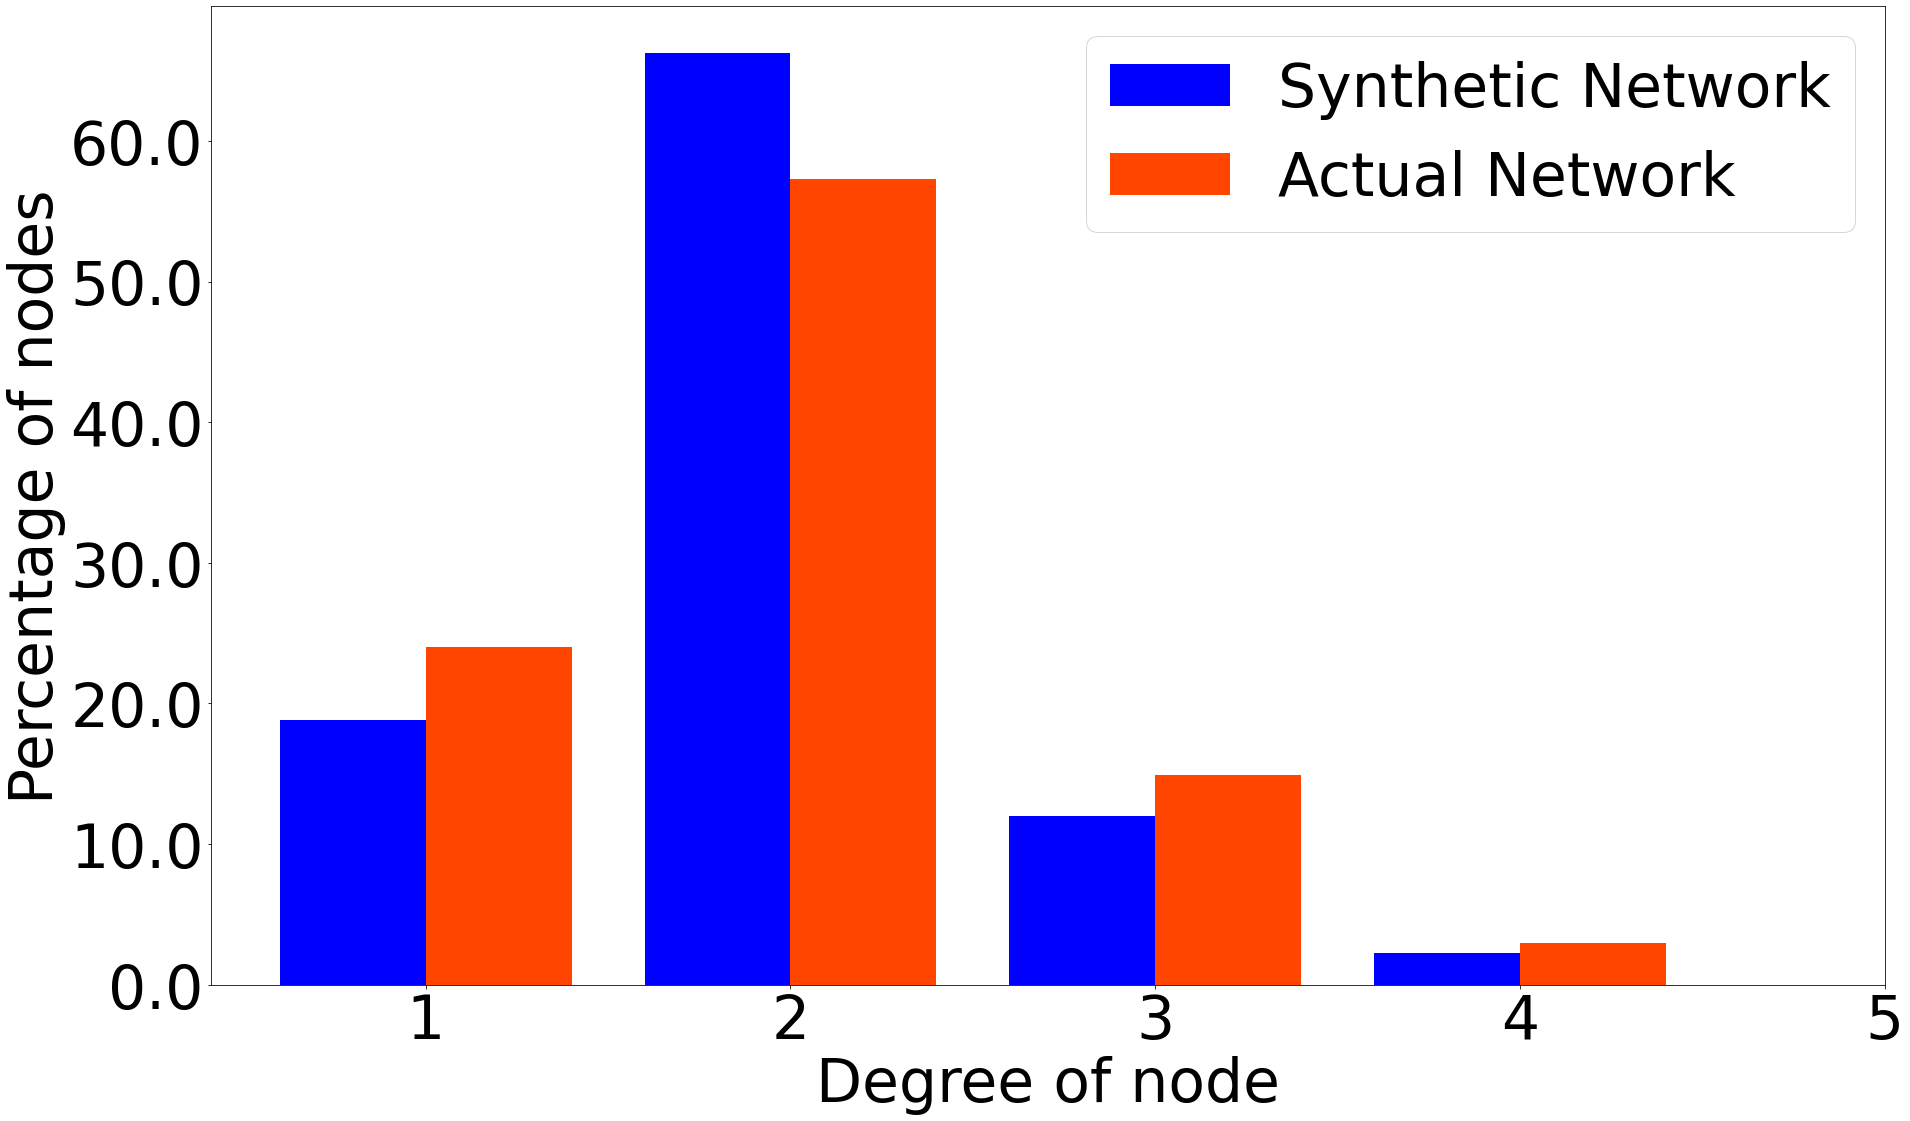
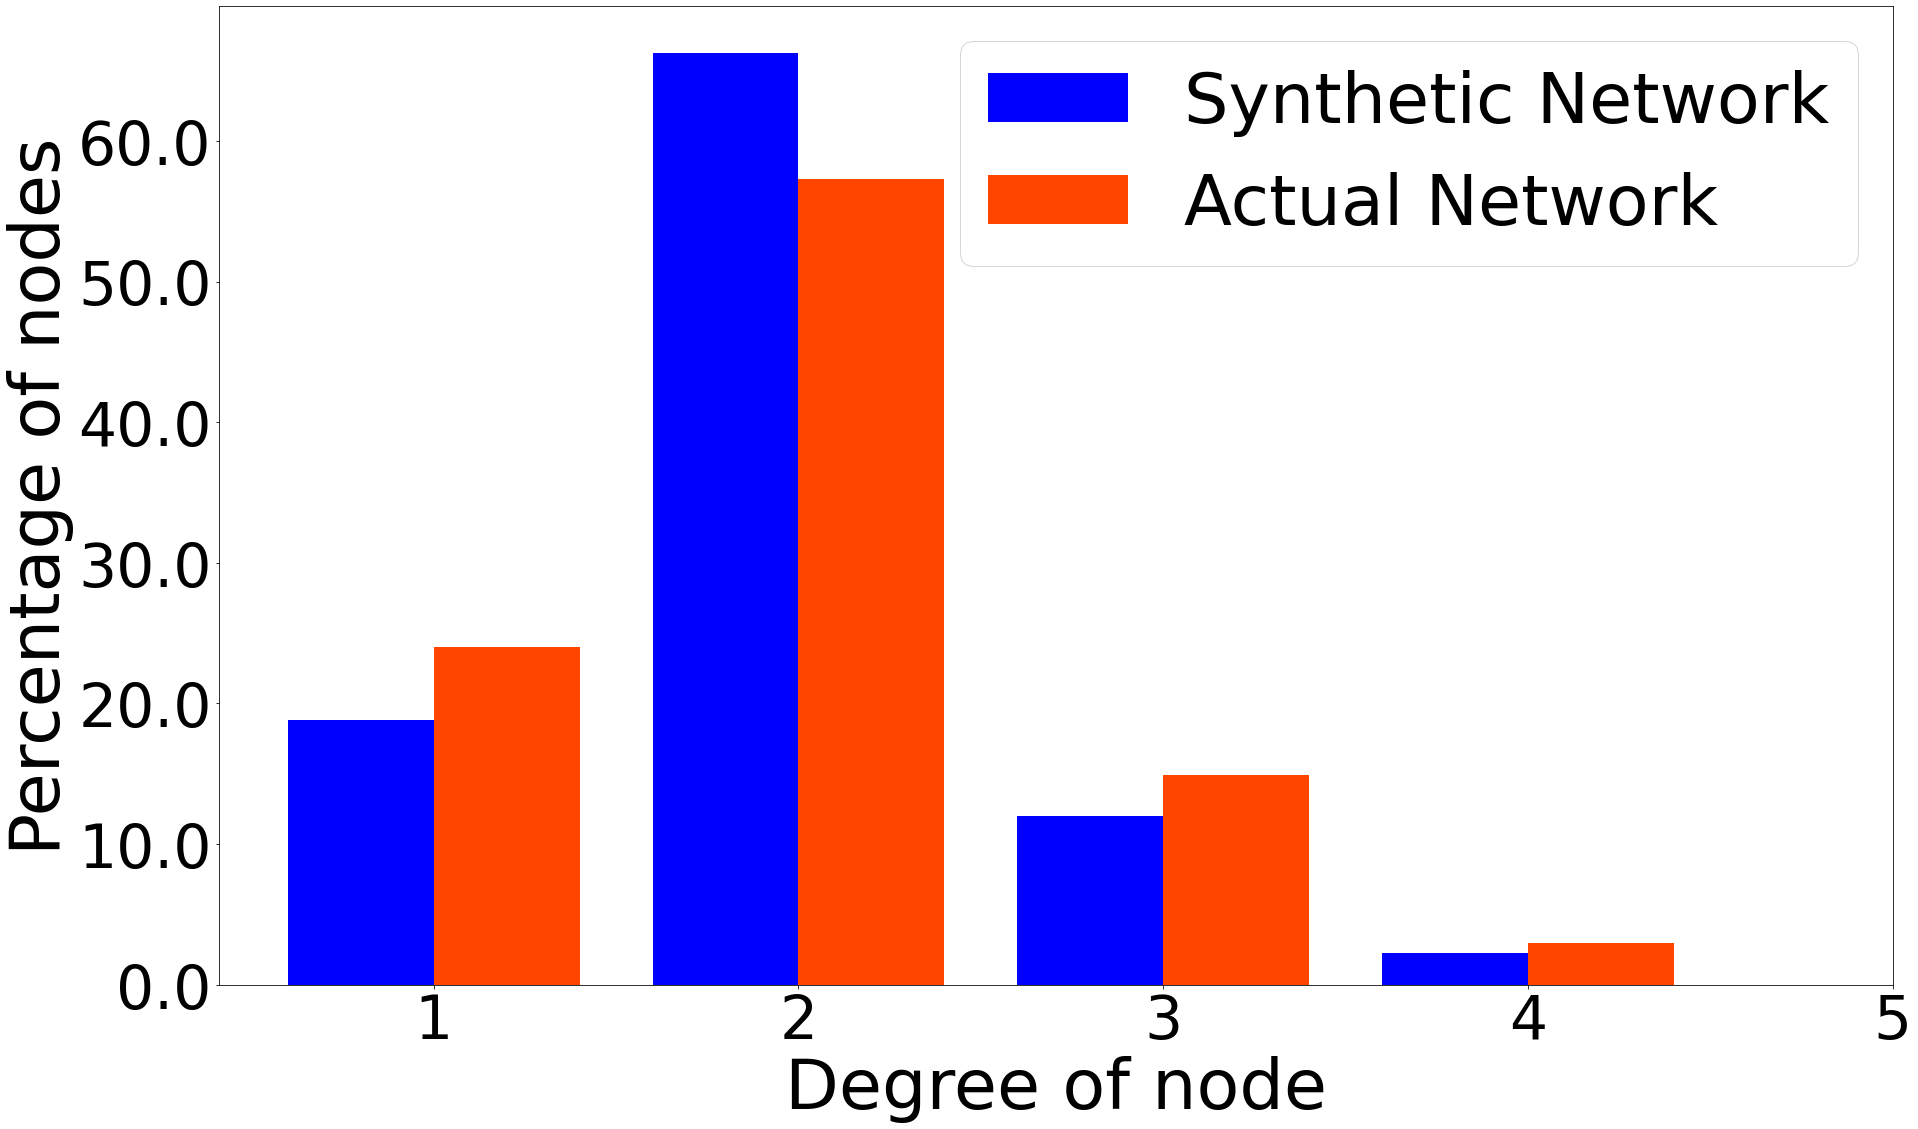
updated figs

diff --git a/compare/grid-comparison.py b/compare/grid-comparison.py
@@ -26,7 +26,7 @@ synpath = rootpath + "/primnet/out/osm-primnet/"
 sys.path.append(libpath)
 from pyExtractDatalib import GetDistNet,get_areadata
 from pyGeometrylib import partitions
-from pyDrawNetworklib import plot_gdf, plot_deviation, add_colorbar
+from pyDrawNetworklib import plot_deviation
 from pyComparisonlib import compute_hausdorff
 print("Imported modules")
 
@@ -45,6 +45,9 @@ areas = {'patrick_henry':194,'mcbryde':9001}
 area_data = {area:get_areadata(actpath,area,root,synth_net) \
                       for area,root in areas.items()}
 print("Area Data extracted and stored")
+
+c_actual = 'orangered'
+c_synth = 'blue'
 
 #%% Functions for comparing actual and synthetic networks
 # Exract area data
@@ -72,20 +75,10 @@ def get_nodes(area_data):
     return act_nodes_geom, synth_nodes_geom
 
 # Plot the networks
-def plot_network_pair(ax,area_data):
-    for area in area_data:
-        plot_gdf(ax,area_data[area]['df_lines'],area_data[area]['df_buses'],
-                      'orangered')
-        plot_gdf(ax,area_data[area]['df_synth'],area_data[area]['df_cords'],
-                      'blue')
-    leg_data = [Line2D([0], [0], color='orangered', markerfacecolor='orangered', 
-                       marker='o',markersize=10, label='Actual distribution network'),
-                Line2D([0], [0], color='blue', markerfacecolor='blue',
-                       marker='o',markersize=10, label='Synthetic distribution network'),
-                Patch(facecolor='white', edgecolor='black', hatch="./",
-                             label='Grids with no actual network data')]
-    
-    ax.legend(handles=leg_data,loc='best',ncol=1,prop={'size': 8})
+def plot_gdf(ax,df_edges,df_nodes,color):
+    """"""
+    df_edges.plot(ax=ax,edgecolor=color,linewidth=2.0)
+    df_nodes.plot(ax=ax,color=color,markersize=500)
     return
 
 #%% Spatial Node Distribution
@@ -98,65 +91,112 @@ def get_suffix(delta):
         suf='00'
     return suf
 
-def node_stats(area_data,kx,ky,x0=0,y0=0,path=None):
-    # Get the limits and data
-    LEFT,RIGHT,BOTTOM,TOP = get_limits(area_data)
-    gridlist = partitions((LEFT,RIGHT,BOTTOM,TOP),kx,ky,x0=x0,y0=y0)
-    act_nodes_geom, syn_nodes_geom = get_nodes(area_data)
-    
-    # Compute the deviation
-    A = {g:sum([geom.within(g) for geom in act_nodes_geom]) for g in gridlist}
-    B = {g:sum([geom.within(g) for geom in syn_nodes_geom]) for g in gridlist}
-    A_nodes = sum(list(A.values()))
-    B_nodes = sum(list(B.values()))
-    
-    C = {bound:100.0*(1-((B[bound]/B_nodes)/(A[bound]/A_nodes))) \
-         if A[bound]!=0 else np.nan for bound in gridlist}
-    
-    C_vals = np.array([C[bound] for bound in C])
-    C_masked = np.ma.array(C_vals, mask=np.isnan(C_vals))
-    
-    # Generate the plot
-    DPI = 72    
-    fig = plt.figure(figsize=(700/DPI, 500/DPI), dpi=DPI)
-    ax = plt.subplot()
-    plot_network_pair(ax, area_data)
-    plot_deviation(ax,gridlist,C_masked)
-    add_colorbar(fig,ax)
-    suffix = "-"+get_suffix(x0)+"-"+get_suffix(y0)
-    if path != None:
-        fig.savefig("{}{}.png".format(figpath,
-            'spatial-comparison-'+str(kx)+str(ky)+suffix),bbox_inches='tight')
-    return C
+leg_data = [Line2D([0], [0], color=c_actual, markerfacecolor=c_actual, 
+                   marker='o',markersize=40, label='Actual distribution network'),
+            Line2D([0], [0], color=c_synth, markerfacecolor=c_synth,
+                   marker='o',markersize=40, label='Synthetic distribution network'),
+            Patch(facecolor='white', edgecolor='black', hatch="./",
+                         label='Grid cells with no actual network data')]
 
 #%% Hausdorff distance between networks
-def haus_dist(area_data,kx,ky,x0=0,y0=0):
-    # Get the limits and data
-    LEFT,RIGHT,BOTTOM,TOP = get_limits(area_data)
-    gridlist = partitions((LEFT,RIGHT,BOTTOM,TOP),kx,ky,x0=x0,y0=y0)
-    act_edges,syn_edges = get_edges(area_data)
-    
-    # Compute Hausdorff distance
-    C = compute_hausdorff(gridlist,act_edges,syn_edges)
-    C_vals = np.array([C[bound] for bound in gridlist])
-    C_masked = np.ma.array(C_vals, mask=np.isnan(C_vals))
-    
-    # Plot the deviation
-    DPI = 72    
-    fig = plt.figure(figsize=(700/DPI, 500/DPI), dpi=DPI)
-    ax = plt.subplot()
-    plot_network_pair(ax, area_data)
-    plot_deviation(ax,gridlist,C_masked,colormap=cm.Greens)
-    add_colorbar(fig,ax,colormap=cm.Greens,
-                 vmin=0.0,vmax=np.nanmax(C_vals),devname="Hausdorff distance (meters)")
-    fig.savefig("{}{}.png".format(figpath,'hauss-comparison-'+str(kx)+'-'+str(ky)),
-            bbox_inches='tight')
-    return C
+kx = 10
+ky = 10
+x0 = 0
+y0 = 0
+
+LEFT,RIGHT,BOTTOM,TOP = get_limits(area_data)
+gridlist = partitions((LEFT,RIGHT,BOTTOM,TOP),kx,ky,x0=x0,y0=y0)
+act_edges,syn_edges = get_edges(area_data)
+C = compute_hausdorff(gridlist,act_edges,syn_edges)
+C_vals = np.array([C[bound] for bound in gridlist])
+C_masked = np.ma.array(C_vals, mask=np.isnan(C_vals))
+
+# Plot the Hausdorff deviation
+fig = plt.figure(figsize=(30,25))
+ax = fig.add_subplot(1,1,1)
+
+for area in area_data:
+    plot_gdf(ax,area_data[area]['df_lines'],area_data[area]['df_buses'],
+                  c_actual)
+    plot_gdf(ax,area_data[area]['df_synth'],area_data[area]['df_cords'],
+                  c_synth)
+
+ax.legend(handles=leg_data,ncol=1,fontsize=50, 
+          bbox_to_anchor=(0.0, 0.0),loc='upper left')
 
 
-#%% Results
-C = haus_dist(area_data,7,7)
+plot_deviation(ax,gridlist,C_masked,colormap=cm.Greens,vmin=0,vmax=500)
+
+cobj = cm.ScalarMappable(cmap=cm.Greens)
+cobj.set_clim(vmin=0.0,vmax=500)
+cbar = fig.colorbar(cobj,ax=ax)
+cbar.set_label("Hausdorff distance (meters)",size=70)
+cbar.ax.tick_params(labelsize=60)
+
+
+fig.savefig("{}{}.png".format(figpath,'hauss-comparison-'+str(kx)+'-'+str(ky)),
+        bbox_inches='tight')
+
+#%% Percentage spatial deviation of node distribution
+
+
 # for s in [-0.1,-0.05,0,0.05,0.1]:
 #     C = node_stats(area_data,7,7,x0=s)
 
-# C = node_stats(area_data,10,10)
+#%% Spatial Distribution of nodes
+kx = 10
+ky = 10
+x0 = 0
+y0 = 0
+
+# Get the limits and data
+LEFT,RIGHT,BOTTOM,TOP = get_limits(area_data)
+gridlist = partitions((LEFT,RIGHT,BOTTOM,TOP),kx,ky,x0=x0,y0=y0)
+act_nodes_geom, syn_nodes_geom = get_nodes(area_data)
+
+# Compute the deviation
+A = {g:sum([geom.within(g) for geom in act_nodes_geom]) for g in gridlist}
+B = {g:sum([geom.within(g) for geom in syn_nodes_geom]) for g in gridlist}
+A_nodes = sum(list(A.values()))
+B_nodes = sum(list(B.values()))
+
+C = {bound:100.0*(1-((B[bound]/B_nodes)/(A[bound]/A_nodes))) \
+     if A[bound]!=0 else np.nan for bound in gridlist}
+
+C_vals = np.array([C[bound] for bound in C])
+C_masked = np.ma.array(C_vals, mask=np.isnan(C_vals))
+
+#%% Generate the plot  
+fig = plt.figure(figsize=(30,25))
+ax = fig.add_subplot(1,1,1)
+
+for area in area_data:
+    plot_gdf(ax,area_data[area]['df_lines'],area_data[area]['df_buses'],
+                  c_actual)
+    plot_gdf(ax,area_data[area]['df_synth'],area_data[area]['df_cords'],
+                  c_synth)
+
+ax.legend(handles=leg_data,ncol=1,fontsize=50, 
+          bbox_to_anchor=(0.0, 0.0),loc='upper left')
+
+plot_deviation(ax,gridlist,C_masked)
+
+
+cobj = cm.ScalarMappable(cmap=cm.BrBG)
+cobj.set_clim(vmin=-100.0,vmax=100.0)
+cbar = fig.colorbar(cobj,ax=ax)
+cbar.set_label("Percentage Deviation",size=70)
+cbar.ax.tick_params(labelsize=60)
+
+
+
+suffix = "-"+get_suffix(x0)+"-"+get_suffix(y0)
+fig.savefig("{}{}.png".format(figpath,
+        'spatial-comparison-'+str(kx)+str(ky)+suffix),bbox_inches='tight')
+
+
+
+
+
+
+

diff --git a/primnet/plot-motifstat.py b/primnet/plot-motifstat.py
@@ -34,10 +34,13 @@ with open(inppath+"rural-sublist.txt") as f:
 rural_sub = [s for s in sublist if s in rural_sublist]
 urban_sub = [s for s in sublist if s in urban_sublist]
 
+c_urban = 'crimson'
+c_rural = 'slateblue'
+
 
 #%% Get motif data in rural and urban areas
 
-k = 5
+k = 4
 
 with open(workpath+"/out/"+str(k)+"star-motif.txt") as f:
     lines = f.readlines()
@@ -65,14 +68,14 @@ def scatter_plot(subs,ax,motifs,color='r',size=10,label='all areas'):
 fig = plt.figure(figsize=(25,25))
 ax = fig.add_subplot(111)
 
-scatter_plot(urban_sub,ax,kstar_motif,color='crimson',size=300,label='urban areas')
-scatter_plot(rural_sub,ax,kstar_motif,color='slateblue',size=300,label='rural areas')
+scatter_plot(urban_sub,ax,kstar_motif,color=c_urban,size=400,label='urban areas')
+scatter_plot(rural_sub,ax,kstar_motif,color=c_rural,size=400,label='rural areas')
 
 ax.set_xlabel("Size of network",fontsize=70)
 ax.set_ylabel("Number of motifs",fontsize=70)
 ax.set_title(str(k)+"-node star motifs",fontsize=70)
 
-ax.legend(prop={'size': 70})
+ax.legend(fontsize=70,markerscale=2.5)
 ax.tick_params(axis='both', labelsize=50)
 fig.savefig("{}{}.png".format(figpath,str(k)+'star-motif-comp'),bbox_inches='tight')
 
@@ -83,13 +86,13 @@ fig.savefig("{}{}.png".format(figpath,str(k)+'star-motif-comp'),bbox_inches='tig
 fig = plt.figure(figsize=(25,25))
 ax = fig.add_subplot(111)
 
-scatter_plot(urban_sub,ax,kpath_motif,color='crimson',size=300,label='urban areas')
-scatter_plot(rural_sub,ax,kpath_motif,color='slateblue',size=300,label='rural areas')
+scatter_plot(urban_sub,ax,kpath_motif,color=c_urban,size=400,label='urban areas')
+scatter_plot(rural_sub,ax,kpath_motif,color=c_rural,size=400,label='rural areas')
 
 ax.set_xlabel("Size of network",fontsize=70)
 ax.set_ylabel("Number of motifs",fontsize=70)
 ax.set_title(str(k)+"-node path motifs",fontsize=70)
 
-ax.legend(prop={'size': 70})
+ax.legend(fontsize=70,markerscale=2)
 ax.tick_params(axis='both', labelsize=50)
 fig.savefig("{}{}.png".format(figpath,str(k)+'path-motif-comp'),bbox_inches='tight')

diff --git a/compare/stat-comparison.py b/compare/stat-comparison.py
@@ -126,9 +126,9 @@ for area in area_data:
             weights=w_deg,label=labels,color=colors)
     ax.set_xticks(range(1,max_deg+1))
     ax.yaxis.set_major_formatter(FuncFormatter(to_percent))
-    ax.set_ylabel("Percentage of nodes",fontsize=60)
-    ax.set_xlabel("Degree of node",fontsize=60)
-    ax.legend(prop={'size': 60})
+    ax.set_ylabel("Percentage of nodes",fontsize=70)
+    ax.set_xlabel("Degree of node",fontsize=70)
+    ax.legend(fontsize=70,markerscale=3)
     ax.tick_params(axis='both', labelsize=60)
     
     # KL-divergence
@@ -145,9 +145,9 @@ for area in area_data:
     ax = fig.add_subplot(111)
     ax.hist(hop,weights=w_hop,label=labels,color=colors)
     ax.yaxis.set_major_formatter(FuncFormatter(to_percent))
-    ax.set_ylabel("Percentage of nodes",fontsize=60)
-    ax.set_xlabel("Hops from root node",fontsize=60)
-    ax.legend(prop={'size': 60})
+    ax.set_ylabel("Percentage of nodes",fontsize=70)
+    ax.set_xlabel("Hops from root node",fontsize=70)
+    ax.legend(fontsize=70,markerscale=3)
     ax.tick_params(axis='both', labelsize=60)
     
     # KL-divergence
@@ -164,9 +164,9 @@ for area in area_data:
     ax = fig.add_subplot(111)
     ax.hist(dist,weights=w_hop,label=labels,color=colors)
     ax.yaxis.set_major_formatter(FuncFormatter(to_percent))
-    ax.set_ylabel("Percentage of nodes",fontsize=60)
-    ax.set_xlabel("Distance from root node (in miles)",fontsize=60)
-    ax.legend(prop={'size': 60})
+    ax.set_ylabel("Percentage of nodes",fontsize=70)
+    ax.set_xlabel("Distance from root node (in miles)",fontsize=70)
+    ax.legend(fontsize=70,markerscale=3)
     ax.tick_params(axis='both', labelsize=60)
     
     # KL-divergence

diff --git a/libs/pyDrawNetworklib.py b/libs/pyDrawNetworklib.py
@@ -278,7 +278,7 @@ def get_polygon(boundary):
     return np.array([vert1,vert2,vert3,vert4])
 
 
-def plot_deviation(ax,gridlist,C_masked,colormap=cm.BrBG):
+def plot_deviation(ax,gridlist,C_masked,colormap=cm.BrBG,vmin=-100.0,vmax=100.0):
     x_array = np.array(sorted(list(set([g.west_edge for g in gridlist]\
                                        +[g.east_edge for g in gridlist]))))
     y_array = np.array(sorted(list(set([g.south_edge for g in gridlist]\
@@ -295,7 +295,7 @@ def plot_deviation(ax,gridlist,C_masked,colormap=cm.BrBG):
     kx = len(y_array) - 1
     
     ax.pcolor(x_array,y_array,C_masked.reshape((kx,ky)).T,cmap=colormap,
-              edgecolor='black')
+              edgecolor='black',vmin=vmin,vmax=vmax)
     
     # Get the boxes for absent actual data
     verts_invalid = [get_polygon(bound) for i,bound in enumerate(gridlist) \
